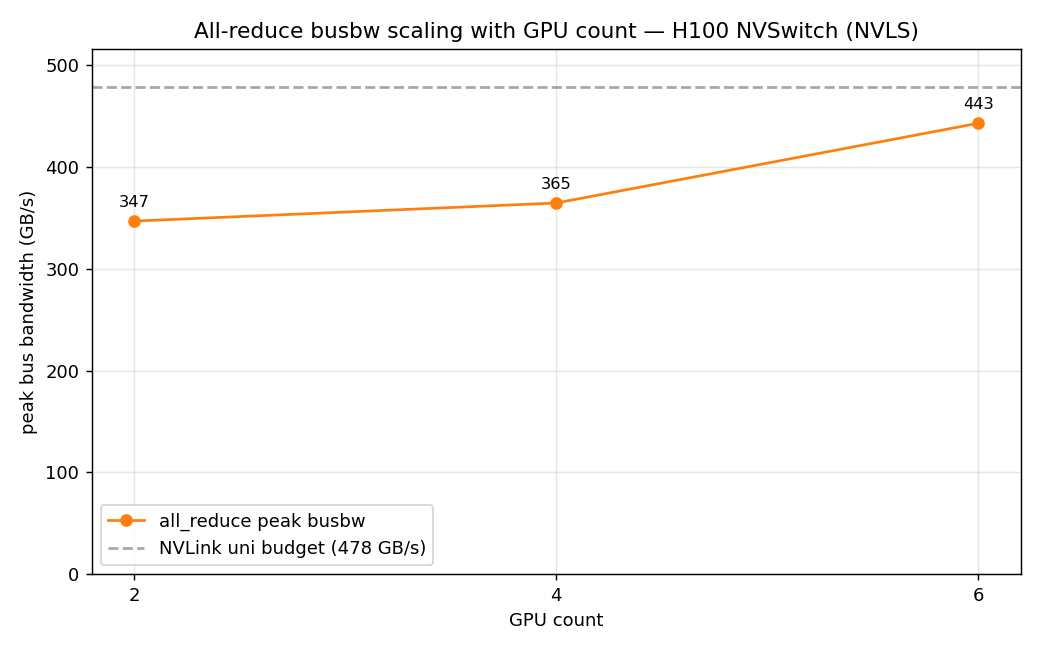
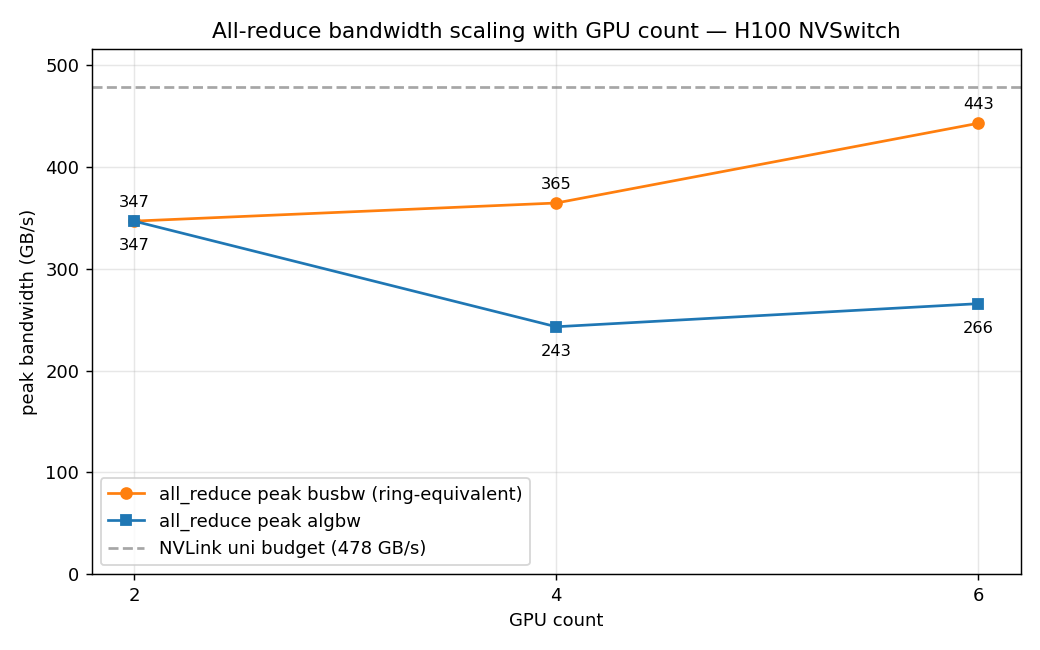
fix(scaling): busbw is ring-equivalent, not physical per-link traffic
The scaling section claimed the 2->4->6 GPU busbw rise (347->365->443 GB/s) was
"real fabric-utilization gain, not an artifact of the factor". That reasoning only
holds if the algorithm is Ring at every N — but the runs used NCCL auto selection,
and the repo's own algo sweep shows the 4-GPU auto result matches pinned Ring
(366), not pinned NVLS (376). If the tuner switched to NVLS at 6 GPUs (the
parsimonious reading: in-switch reduction means each GPU ships its data once),
physical per-link traffic is ~algbw = 266 GB/s (56% of budget), not 443 GB/s
(93%), and most of the rise is the ring factor applied to non-ring traffic.

- analysis/scaling.py: parse + report algbw alongside busbw; rewrite the
  interpretation around the Ring/NVLS attribution ambiguity; plot both curves
- README / results/report.md: same correction; note NVLS is not auto-picked on
  this box (auto matches pinned Ring), so pin it explicitly
- docs/roadmap.md: new item — re-run -g 2/4/6 with NCCL_DEBUG=INFO,TUNING and
  NCCL_ALGO pinned to Ring and NVLS separately to settle the attribution

diff --git a/analysis/scaling.py b/analysis/scaling.py
@@ -1,15 +1,21 @@
 #!/usr/bin/env python3
-"""All-reduce bus-bandwidth scaling with GPU count (NVLS on NVSwitch).
+"""All-reduce bandwidth scaling with GPU count on NVSwitch.
 
 Parses results/scaling.txt (all_reduce_perf at -g 2/4/6, 256 MB .. 8 GB) and reports peak
-busbw per GPU count against the measured NVLink budget. Busbw rises with N because higher
-GPU counts utilize the NVSwitch fabric more fully (more concurrent NVLink paths and better
-NVLS in-switch-reduction efficiency keep the links saturated) — NOT as a mechanical artifact
-of the ring factor. busbw = algbw x 2(N-1)/N (the nccl-tests formula) converts algorithm
-bandwidth into the physical per-link traffic rate, which is the quantity the hardware bounds;
-with a fixed link speed busbw would stay flat as N grows, so any rise is real. The 6-GPU ~93%
-of the per-GPU unidirectional budget is an optimistic upper-bound framing (all-reduce traffic
-is simultaneously bidirectional in steady state; literature commonly reports ~75-85%).
+busbw AND peak algbw per GPU count against the measured NVLink budget.
+
+Interpretation note (the part that is easy to get wrong): busbw = algbw x 2(N-1)/N is
+nccl-tests' RING-equivalent normalization — it equals physical per-link traffic only when
+the algorithm actually moves ring-pattern traffic. These runs use NCCL's automatic algorithm
+selection (no NCCL_ALGO pin, NCCL_DEBUG not captured), so the busbw column does not have a
+single physical meaning across N:
+  - at 4 GPUs the auto result matches the pinned-Ring sweep (366, results/algo_sweep.txt),
+    not pinned NVLS (376) -> busbw there is a real per-link rate;
+  - at 6 GPUs the 443 busbw is ambiguous: Ring would imply an unexplained jump in link
+    efficiency (77% -> 93%), while NVLS (each GPU ships its data ONCE — in-switch reduction)
+    implies physical per-link traffic of only ~algbw = 266 GB/s (56% of budget), with most of
+    the busbw rise being the ring factor applied to non-ring traffic.
+The committed logs cannot distinguish the two; see the report text and the roadmap item.
 """
 import re, os
 
@@ -17,35 +23,43 @@ NVLINK_UNI_GBS = 26.562 * 18  # 478.1 GB/s, measured per-link x links
 
 
 def parse_peak(path):
-    """Return {gpu_count: peak all_reduce busbw GB/s} parsed from scaling.txt."""
+    """Return {gpu_count: (peak busbw, algbw at that row)} parsed from scaling.txt."""
     peak, cur = {}, None
     for line in open(path):
         m = re.search(r"GPUS=(\d+)", line)
         if m:
-            cur = int(m.group(1)); peak[cur] = 0.0; continue
-        m = re.match(r"\s*\d+\s+\d+\s+\S+\s+\S+\s+\S+\s+[\d.]+\s+[\d.]+\s+([\d.]+)", line)
+            cur = int(m.group(1)); peak[cur] = (0.0, 0.0); continue
+        m = re.match(r"\s*\d+\s+\d+\s+\S+\s+\S+\s+\S+\s+[\d.]+\s+([\d.]+)\s+([\d.]+)", line)
         if m and cur:
-            peak[cur] = max(peak[cur], float(m.group(1)))
+            algbw, busbw = float(m.group(1)), float(m.group(2))
+            if busbw > peak[cur][0]:
+                peak[cur] = (busbw, algbw)
     return peak
 
 
 def plot(peak):
-    """Emit results/scaling_busbw.png — peak busbw vs GPU count (same aesthetic as plot.py)."""
+    """Emit results/scaling_busbw.png — peak busbw and algbw vs GPU count."""
     import matplotlib; matplotlib.use("Agg")
     import matplotlib.pyplot as plt
     ns = sorted(peak)
-    ys = [peak[n] for n in ns]
+    bus = [peak[n][0] for n in ns]
+    alg = [peak[n][1] for n in ns]
     plt.figure(figsize=(8, 5))
-    plt.plot(ns, ys, marker="o", color="tab:orange", label="all_reduce peak busbw")
+    plt.plot(ns, bus, marker="o", color="tab:orange",
+             label="all_reduce peak busbw (ring-equivalent)")
+    plt.plot(ns, alg, marker="s", color="tab:blue", label="all_reduce peak algbw")
     plt.axhline(NVLINK_UNI_GBS, color="gray", linestyle="--", alpha=0.7,
                 label=f"NVLink uni budget ({NVLINK_UNI_GBS:.0f} GB/s)")
-    for n, y in zip(ns, ys):
+    for n, y in zip(ns, bus):
         plt.annotate(f"{y:.0f}", (n, y), textcoords="offset points",
                      xytext=(0, 8), ha="center", fontsize=9)
+    for n, y in zip(ns, alg):
+        plt.annotate(f"{y:.0f}", (n, y), textcoords="offset points",
+                     xytext=(0, -16), ha="center", fontsize=9)
     plt.xticks(ns)
     plt.ylim(0, NVLINK_UNI_GBS * 1.08)
-    plt.xlabel("GPU count"); plt.ylabel("peak bus bandwidth (GB/s)")
-    plt.title("All-reduce busbw scaling with GPU count — H100 NVSwitch (NVLS)")
+    plt.xlabel("GPU count"); plt.ylabel("peak bandwidth (GB/s)")
+    plt.title("All-reduce bandwidth scaling with GPU count — H100 NVSwitch")
     plt.legend(); plt.grid(True, alpha=0.3)
     plt.tight_layout(); plt.savefig("results/scaling_busbw.png", dpi=130)
     print("wrote results/scaling_busbw.png")
@@ -57,27 +71,52 @@ def main():
         print("no results/scaling.txt"); return
     peak = parse_peak(path)
 
-    L = ["## All-reduce busbw scaling with GPU count\n",
-         f"NVSwitch fabric, all_reduce, peak busbw vs GPU count "
-         f"(NVLink budget {NVLINK_UNI_GBS:.0f} GB/s/GPU unidirectional):\n",
-         "| GPUs | peak busbw | % of NVLink budget | ring factor 2(N-1)/N |",
-         "|---|---|---|---|"]
+    L = ["## All-reduce bandwidth scaling with GPU count\n",
+         f"NVSwitch fabric, all_reduce, peak bandwidth vs GPU count, NCCL automatic algorithm "
+         f"selection (NVLink budget {NVLINK_UNI_GBS:.0f} GB/s/GPU unidirectional):\n",
+         "| GPUs | peak busbw | peak algbw | ring factor 2(N-1)/N | busbw as % of NVLink budget |",
+         "|---|---|---|---|---|"]
     for n in sorted(peak):
+        bus, alg = peak[n]
         f = 2 * (n - 1) / n
-        L.append(f"| {n} | {peak[n]:.0f} GB/s | {100*peak[n]/NVLINK_UNI_GBS:.0f}% | {f:.2f} |")
+        L.append(f"| {n} | {bus:.0f} GB/s | {alg:.0f} GB/s | {f:.2f} | "
+                 f"{100*bus/NVLINK_UNI_GBS:.0f}% |")
     L += ["",
-          "Busbw climbs with N because higher GPU counts utilize the NVSwitch fabric more "
-          "fully — more concurrent NVLink paths and better NVLS (in-switch reduction) "
-          "efficiency keep the links saturated. (busbw is defined as algbw x 2(N-1)/N — the "
-          "nccl-tests formula — converting algorithm bandwidth into the physical per-link "
-          "traffic rate, which is what the hardware bounds; with a fixed link speed busbw "
-          "would stay flat as N grows, so the rise is real fabric-utilization gain, not an "
-          "artifact of the factor.) The 4-GPU "
-          "number quoted elsewhere in this repo is a mid-scale operating point, not the "
-          "ceiling. The 6-GPU 93% should be read as an optimistic upper-bound framing rather "
-          "than \"near line-rate\": the 478 GB/s budget is *unidirectional* per-GPU, while "
-          "steady-state all-reduce traffic is simultaneously bidirectional, and the literature "
-          "commonly reports ~75-85% of the unidirectional budget.\n"]
+          "**How to read this (and how not to).** busbw is nccl-tests' *ring-equivalent* "
+          "normalization: busbw = algbw x 2(N-1)/N, the per-link traffic a ring algorithm "
+          "would generate at the measured algbw. It equals physical per-link traffic only "
+          "when the algorithm actually is Ring. These runs use NCCL's automatic algorithm "
+          "selection (no `NCCL_ALGO` pin; `NCCL_DEBUG` output was not captured), which changes "
+          "what the busbw column means at each N:",
+          "",
+          "- **2 GPUs** — Ring and NVLS traffic patterns coincide (each GPU sends and receives "
+          "the full buffer once), so 347 GB/s is a real per-link rate (73% of budget).",
+          "- **4 GPUs** — the auto-selected result (365) matches the pinned-**Ring** row of the "
+          "algorithm sweep (366, `results/algo_sweep.txt`), not pinned NVLS (376). busbw here "
+          "is a real per-link rate (76% of budget).",
+          "- **6 GPUs** — the 443 busbw is **ambiguous**. If the tuner stayed on Ring, it is a "
+          "physical 93% of the link budget — a 17-point jump in link efficiency over the 4-GPU "
+          "point with no mechanism to explain it. If the tuner switched to NVLS at the higher "
+          "rank count (the parsimonious reading: pinned NVLS already beats Ring at 4 GPUs, and "
+          "NVLS busbw is inflated by a ring factor that does not describe its traffic — with "
+          "in-switch reduction each GPU ships its data once, moving only ~algbw = 266 GB/s, "
+          "56% of budget), then most of the 365 -> 443 rise is the normalization formula, not "
+          "extra bytes on the links. Decomposition under the NVLS reading: busbw ratio 443/376 "
+          "= 1.18 = factor ratio (1.67/1.50 = 1.11) x physical algbw gain (266/251 = 1.06).",
+          "",
+          "The committed logs cannot distinguish the two readings (no `NCCL_DEBUG` output); "
+          "resolving this is a roadmap item (re-run with `NCCL_DEBUG=INFO,TUNING` and "
+          "`NCCL_ALGO` pinned to Ring and NVLS separately). Until then, the defensible "
+          "statements are:",
+          "",
+          "1. End-to-end all-reduce **algbw** — what a training step actually sees per byte of "
+          "gradient — drops from 347 GB/s (2 GPUs) to 243/266 GB/s (4/6 GPUs), because each "
+          "GPU must move 2(N-1)/N x more data as N grows. There is no free lunch in scaling "
+          "out the ring.",
+          "2. The 4-GPU ~366 GB/s busbw quoted elsewhere in this repo **is** a physical "
+          "per-link rate, confirmed independently by the pinned-Ring sweep.",
+          "3. The 6-GPU \"93% of budget\" figure should **not** be quoted as physical link "
+          "utilization — under the more likely NVLS reading the links carry ~56% of budget.\n"]
     open("results/scaling_report.md", "w").write("\n".join(L) + "\n")
     print("\n".join(L))
     plot(peak)

diff --git a/README.md b/README.md
@@ -64,21 +64,23 @@ NVLink budget (measured via `nvidia-smi nvlink --status`): 18 links × 26.562 GB
 beats Ring at every size — 376 vs 366 GB/s @8GB, 359 vs 340 @256MB — and Tree (259 GB/s,
 multi-node-oriented) trails both. **Protocol study @256MB:** Simple 340 / LL128 313 / LL 147 GB/s.
 
-**Scaling with GPU count** (all_reduce peak busbw, `analysis/scaling.py`): 2→347, 4→365,
-**6→443 GB/s**. Busbw rises with N because higher GPU counts utilize the NVSwitch fabric
-more fully — more concurrent NVLink paths and better NVLS (in-switch reduction) efficiency
-keep the links saturated. (busbw is defined as algbw × 2(N−1)/N — the nccl-tests formula —
-converting algorithm bandwidth into the physical per-link traffic rate, which is what the
-hardware bounds; with a fixed link speed busbw would stay flat as N grows, so the rise is
-real fabric-utilization gain, not an artifact of the factor.) So the 4-GPU 366 GB/s above is a mid-scale operating point,
-not the ceiling. The 6-GPU 443 GB/s is **93% of the 478 GB/s figure**, but read that as an
-optimistic upper-bound framing, not "near line-rate": the 478 GB/s is the *unidirectional*
-per-GPU link budget, whereas steady-state all-reduce traffic is simultaneously bidirectional,
-and the literature commonly reports ~75–85% of the unidirectional budget.
+**Scaling with GPU count** (all_reduce, `analysis/scaling.py`): peak busbw 2→347, 4→365,
+**6→443 GB/s**; peak algbw 2→347, 4→243, 6→266 GB/s. Read the busbw column with care — busbw
+is nccl-tests' *ring-equivalent* normalization (algbw × 2(N−1)/N) and equals physical
+per-link traffic only when the algorithm actually is Ring. These runs use NCCL's automatic
+algorithm selection: the 4-GPU result matches the pinned-Ring sweep (366, not NVLS's 376), so
+it is a real per-link rate (76% of budget); the 6-GPU 443 (93% of budget) is **ambiguous** —
+if the tuner switched to NVLS at the higher rank count (the likely reading, since with
+in-switch reduction each GPU ships its data once), the links physically carry only
+~algbw = 266 GB/s (56% of budget) and most of the 365→443 rise is the normalization formula,
+not extra bytes on the wire. The committed logs cannot distinguish the two readings (no
+`NCCL_DEBUG` capture). Full decomposition and the defensible claims:
+[`results/scaling_report.md`](results/scaling_report.md); resolving the attribution
+(re-run with pinned `NCCL_ALGO` + `NCCL_DEBUG=INFO,TUNING`) is a roadmap item.
 
-**Peak all_reduce busbw climbs with GPU count (2→347, 4→365, 6→443 GB/s) as more concurrent NVLink paths and NVLS in-switch reduction keep the NVSwitch fabric saturated — the dashed line is the 478 GB/s unidirectional per-GPU budget:**
+**Peak all_reduce busbw climbs with GPU count (2→347, 4→365, 6→443 GB/s) while algbw falls (347→243→266 GB/s) — the divergence is the ring factor 2(N−1)/N, which is exactly why the busbw curve needs the algorithm-attribution caveat above; the dashed line is the 478 GB/s unidirectional per-GPU budget:**
 
-![Peak all_reduce bus bandwidth vs GPU count (2/4/6) against the 478 GB/s NVLink unidirectional budget](results/scaling_busbw.png)
+![Peak all_reduce bus bandwidth and algorithm bandwidth vs GPU count (2/4/6) against the 478 GB/s NVLink unidirectional budget](results/scaling_busbw.png)
 
 > Note: `make sweep` defaults to 4 GPUs. On a shared box, pin to free GPUs and never touch
 > a busy one: `CUDA_DEVICE_ORDER=PCI_BUS_ID CUDA_VISIBLE_DEVICES=2,3,4,5 make sweep`

diff --git a/results/scaling_report.md b/results/scaling_report.md
@@ -1,12 +1,22 @@
-## All-reduce busbw scaling with GPU count
+## All-reduce bandwidth scaling with GPU count
 
-NVSwitch fabric, all_reduce, peak busbw vs GPU count (NVLink budget 478 GB/s/GPU unidirectional):
+NVSwitch fabric, all_reduce, peak bandwidth vs GPU count, NCCL automatic algorithm selection (NVLink budget 478 GB/s/GPU unidirectional):
 
-| GPUs | peak busbw | % of NVLink budget | ring factor 2(N-1)/N |
-|---|---|---|---|
-| 2 | 347 GB/s | 73% | 1.00 |
-| 4 | 365 GB/s | 76% | 1.50 |
-| 6 | 443 GB/s | 93% | 1.67 |
+| GPUs | peak busbw | peak algbw | ring factor 2(N-1)/N | busbw as % of NVLink budget |
+|---|---|---|---|---|
+| 2 | 347 GB/s | 347 GB/s | 1.00 | 73% |
+| 4 | 365 GB/s | 243 GB/s | 1.50 | 76% |
+| 6 | 443 GB/s | 266 GB/s | 1.67 | 93% |
 
-Busbw climbs with N because higher GPU counts utilize the NVSwitch fabric more fully — more concurrent NVLink paths and better NVLS (in-switch reduction) efficiency keep the links saturated. (busbw is defined as algbw x 2(N-1)/N — the nccl-tests formula — converting algorithm bandwidth into the physical per-link traffic rate, which is what the hardware bounds; with a fixed link speed busbw would stay flat as N grows, so the rise is real fabric-utilization gain, not an artifact of the factor.) The 4-GPU number quoted elsewhere in this repo is a mid-scale operating point, not the ceiling. The 6-GPU 93% should be read as an optimistic upper-bound framing rather than "near line-rate": the 478 GB/s budget is *unidirectional* per-GPU, while steady-state all-reduce traffic is simultaneously bidirectional, and the literature commonly reports ~75-85% of the unidirectional budget.
+**How to read this (and how not to).** busbw is nccl-tests' *ring-equivalent* normalization: busbw = algbw x 2(N-1)/N, the per-link traffic a ring algorithm would generate at the measured algbw. It equals physical per-link traffic only when the algorithm actually is Ring. These runs use NCCL's automatic algorithm selection (no `NCCL_ALGO` pin; `NCCL_DEBUG` output was not captured), which changes what the busbw column means at each N:
+
+- **2 GPUs** — Ring and NVLS traffic patterns coincide (each GPU sends and receives the full buffer once), so 347 GB/s is a real per-link rate (73% of budget).
+- **4 GPUs** — the auto-selected result (365) matches the pinned-**Ring** row of the algorithm sweep (366, `results/algo_sweep.txt`), not pinned NVLS (376). busbw here is a real per-link rate (76% of budget).
+- **6 GPUs** — the 443 busbw is **ambiguous**. If the tuner stayed on Ring, it is a physical 93% of the link budget — a 17-point jump in link efficiency over the 4-GPU point with no mechanism to explain it. If the tuner switched to NVLS at the higher rank count (the parsimonious reading: pinned NVLS already beats Ring at 4 GPUs, and NVLS busbw is inflated by a ring factor that does not describe its traffic — with in-switch reduction each GPU ships its data once, moving only ~algbw = 266 GB/s, 56% of budget), then most of the 365 -> 443 rise is the normalization formula, not extra bytes on the links. Decomposition under the NVLS reading: busbw ratio 443/376 = 1.18 = factor ratio (1.67/1.50 = 1.11) x physical algbw gain (266/251 = 1.06).
+
+The committed logs cannot distinguish the two readings (no `NCCL_DEBUG` output); resolving this is a roadmap item (re-run with `NCCL_DEBUG=INFO,TUNING` and `NCCL_ALGO` pinned to Ring and NVLS separately). Until then, the defensible statements are:
+
+1. End-to-end all-reduce **algbw** — what a training step actually sees per byte of gradient — drops from 347 GB/s (2 GPUs) to 243/266 GB/s (4/6 GPUs), because each GPU must move 2(N-1)/N x more data as N grows. There is no free lunch in scaling out the ring.
+2. The 4-GPU ~366 GB/s busbw quoted elsewhere in this repo **is** a physical per-link rate, confirmed independently by the pinned-Ring sweep.
+3. The 6-GPU "93% of budget" figure should **not** be quoted as physical link utilization — under the more likely NVLS reading the links carry ~56% of budget.
 

diff --git a/docs/roadmap.md b/docs/roadmap.md
@@ -60,6 +60,14 @@ Goal: turn published NCCL/NVSwitch reference numbers into measured rows from thi
     re-prices the TP-decode ceiling (271/456 tok/s for Llama-70B TP=4) — if the floor halves,
     the comms-bound ceiling roughly doubles.
 
+- [ ] **Scaling-study algorithm attribution (busbw vs physical link traffic).** The 2/4/6-GPU
+  scaling runs used NCCL's automatic algorithm selection without `NCCL_DEBUG` capture, so the
+  6-GPU 443 GB/s busbw cannot be attributed: Ring would mean 93% physical link utilization (an
+  unexplained jump from the 4-GPU 76%), NVLS would mean ~56% (busbw inflated by a ring factor
+  that does not describe in-switch-reduction traffic). Re-run `-g 2/4/6` with
+  `NCCL_DEBUG=INFO,TUNING` and `NCCL_ALGO` pinned to Ring and NVLS separately; report physical
+  per-link traffic per algorithm. See `results/scaling_report.md` for the full decomposition.
+
 - [ ] **Candidates (spec on demand):** MSCCL++ vs NCCL (reference 3.8× small / 2.2× large on
   8×H100, arXiv:[phone redacted]); SM cost of collectives (NCCL 2.27 SHARP offload: 16→6 SMs) —
   measures the compute *stolen* by communication, a dimension this repo has not touched.

diff --git a/results/report.md b/results/report.md
@@ -53,7 +53,7 @@ GPU7	NV18	NV18	NV18	NV18	NV18	NV18	NV18	 X 	SYS	SYS	SYS	SYS	NODE	NODE	PXB	PXB	SY
 
 - **TP=4 all-reduce** runs once per transformer layer (after attention and after MLP). At decode batch=1 each all-reduce is a few hundred KB — below the crossover, so latency-bound. Throughput-serving (large batch) pushes into the bandwidth regime where NVLS's ~376 GB/s matters.
 
-- **Choosing NVLS** (`NCCL_ALGO=NVLS`, default-on for NVSwitch) buys ~3–8% over Ring at the sizes TP inference uses, for free.
+- **Pinning NVLS** (`NCCL_ALGO=NVLS`) buys ~3–8% over Ring at the sizes TP inference uses. Don't assume the tuner picks it: NVLS support is detected on this box, but the auto-tuned 4-GPU sweep (366 GB/s) matches the pinned-Ring number, not pinned NVLS (376).
 
 - The measured ceiling (~77% of NVLink uni budget for ring all-reduce) is the honest number to plan around — not the 478 GB/s datasheet figure.
 